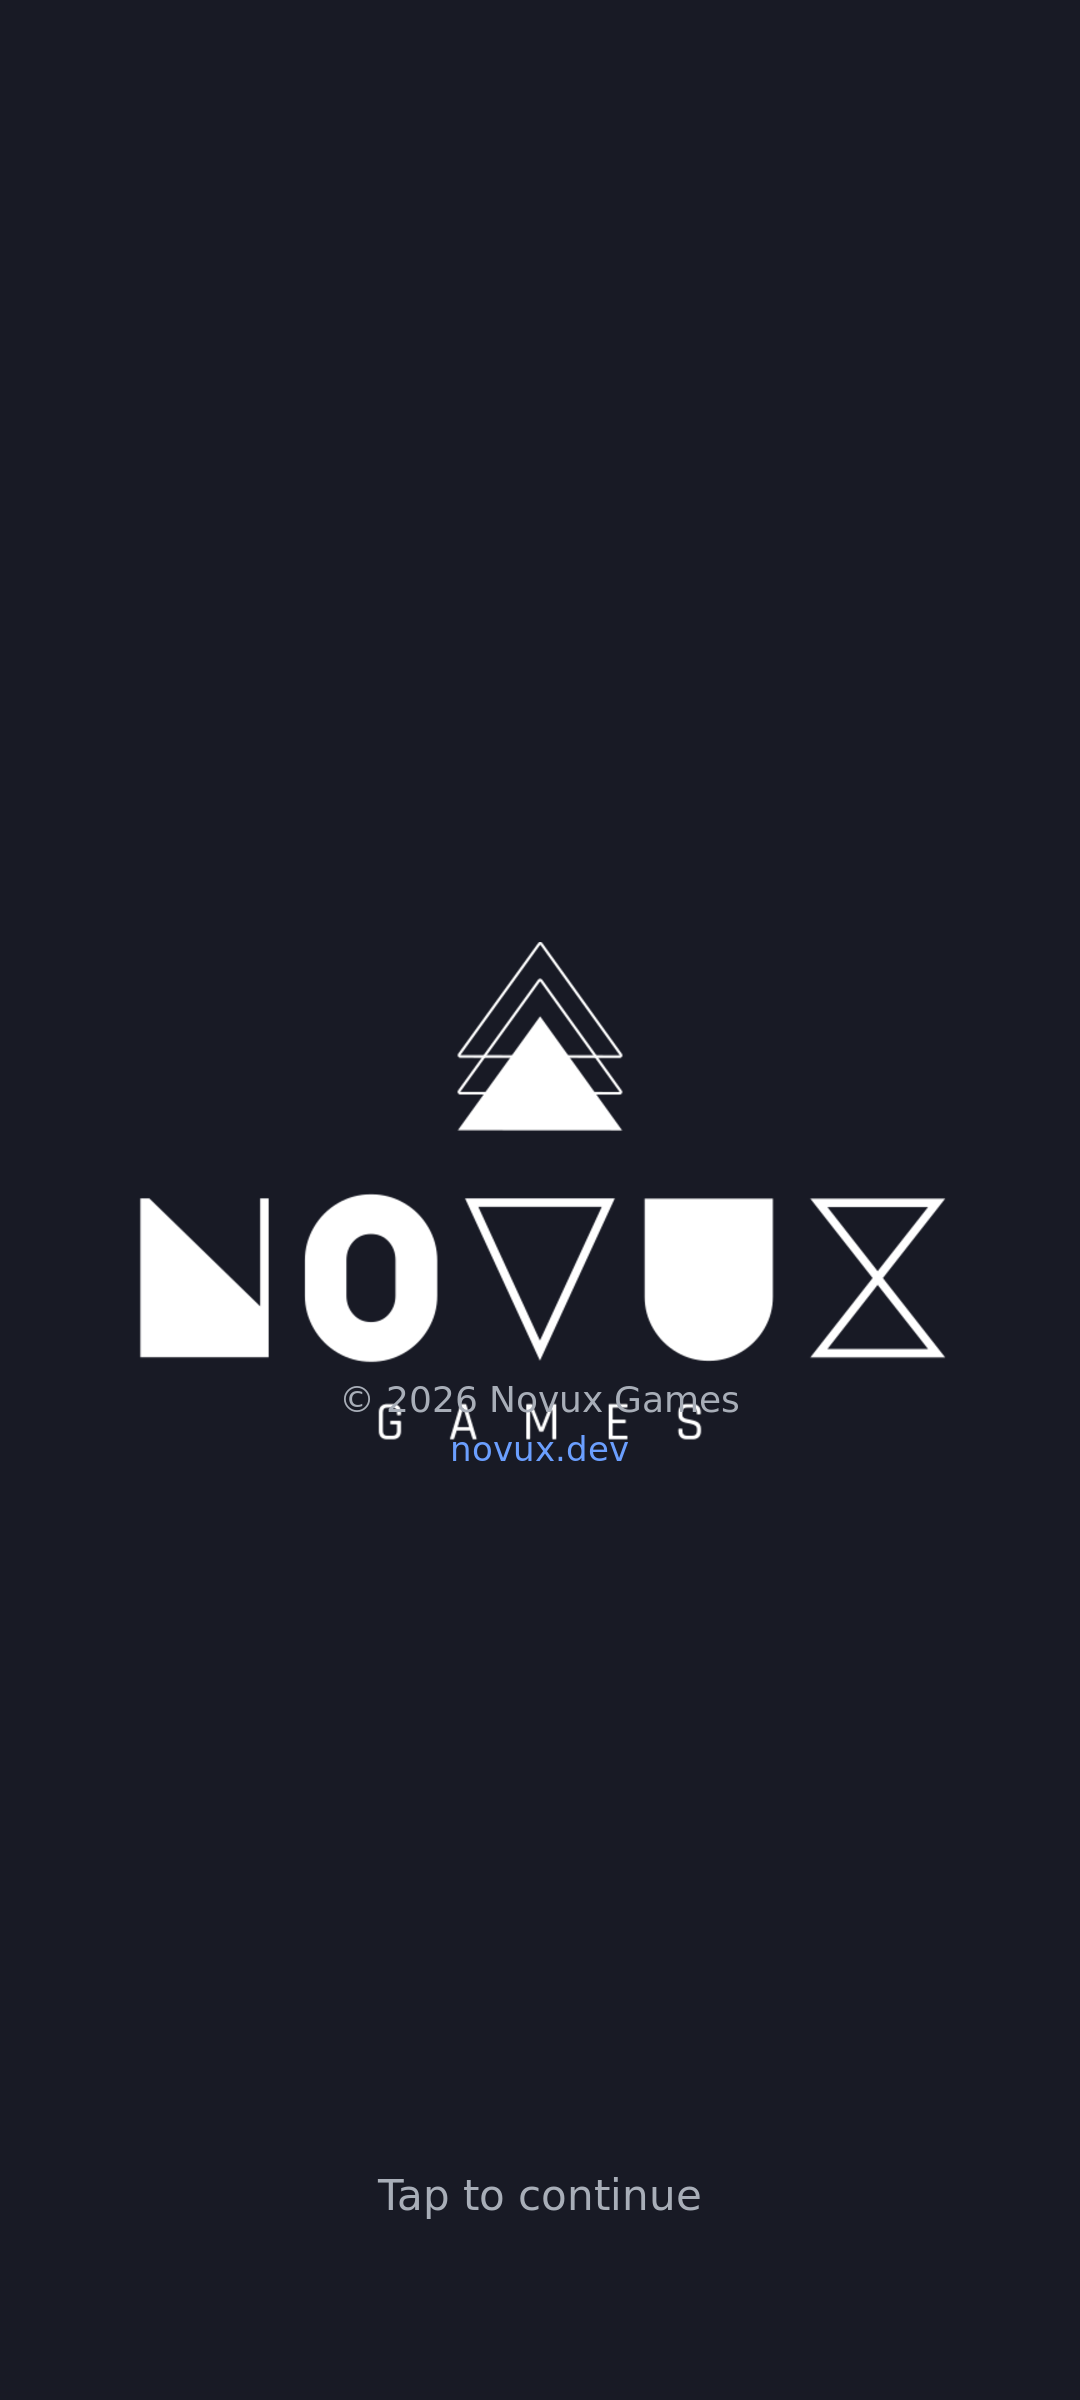
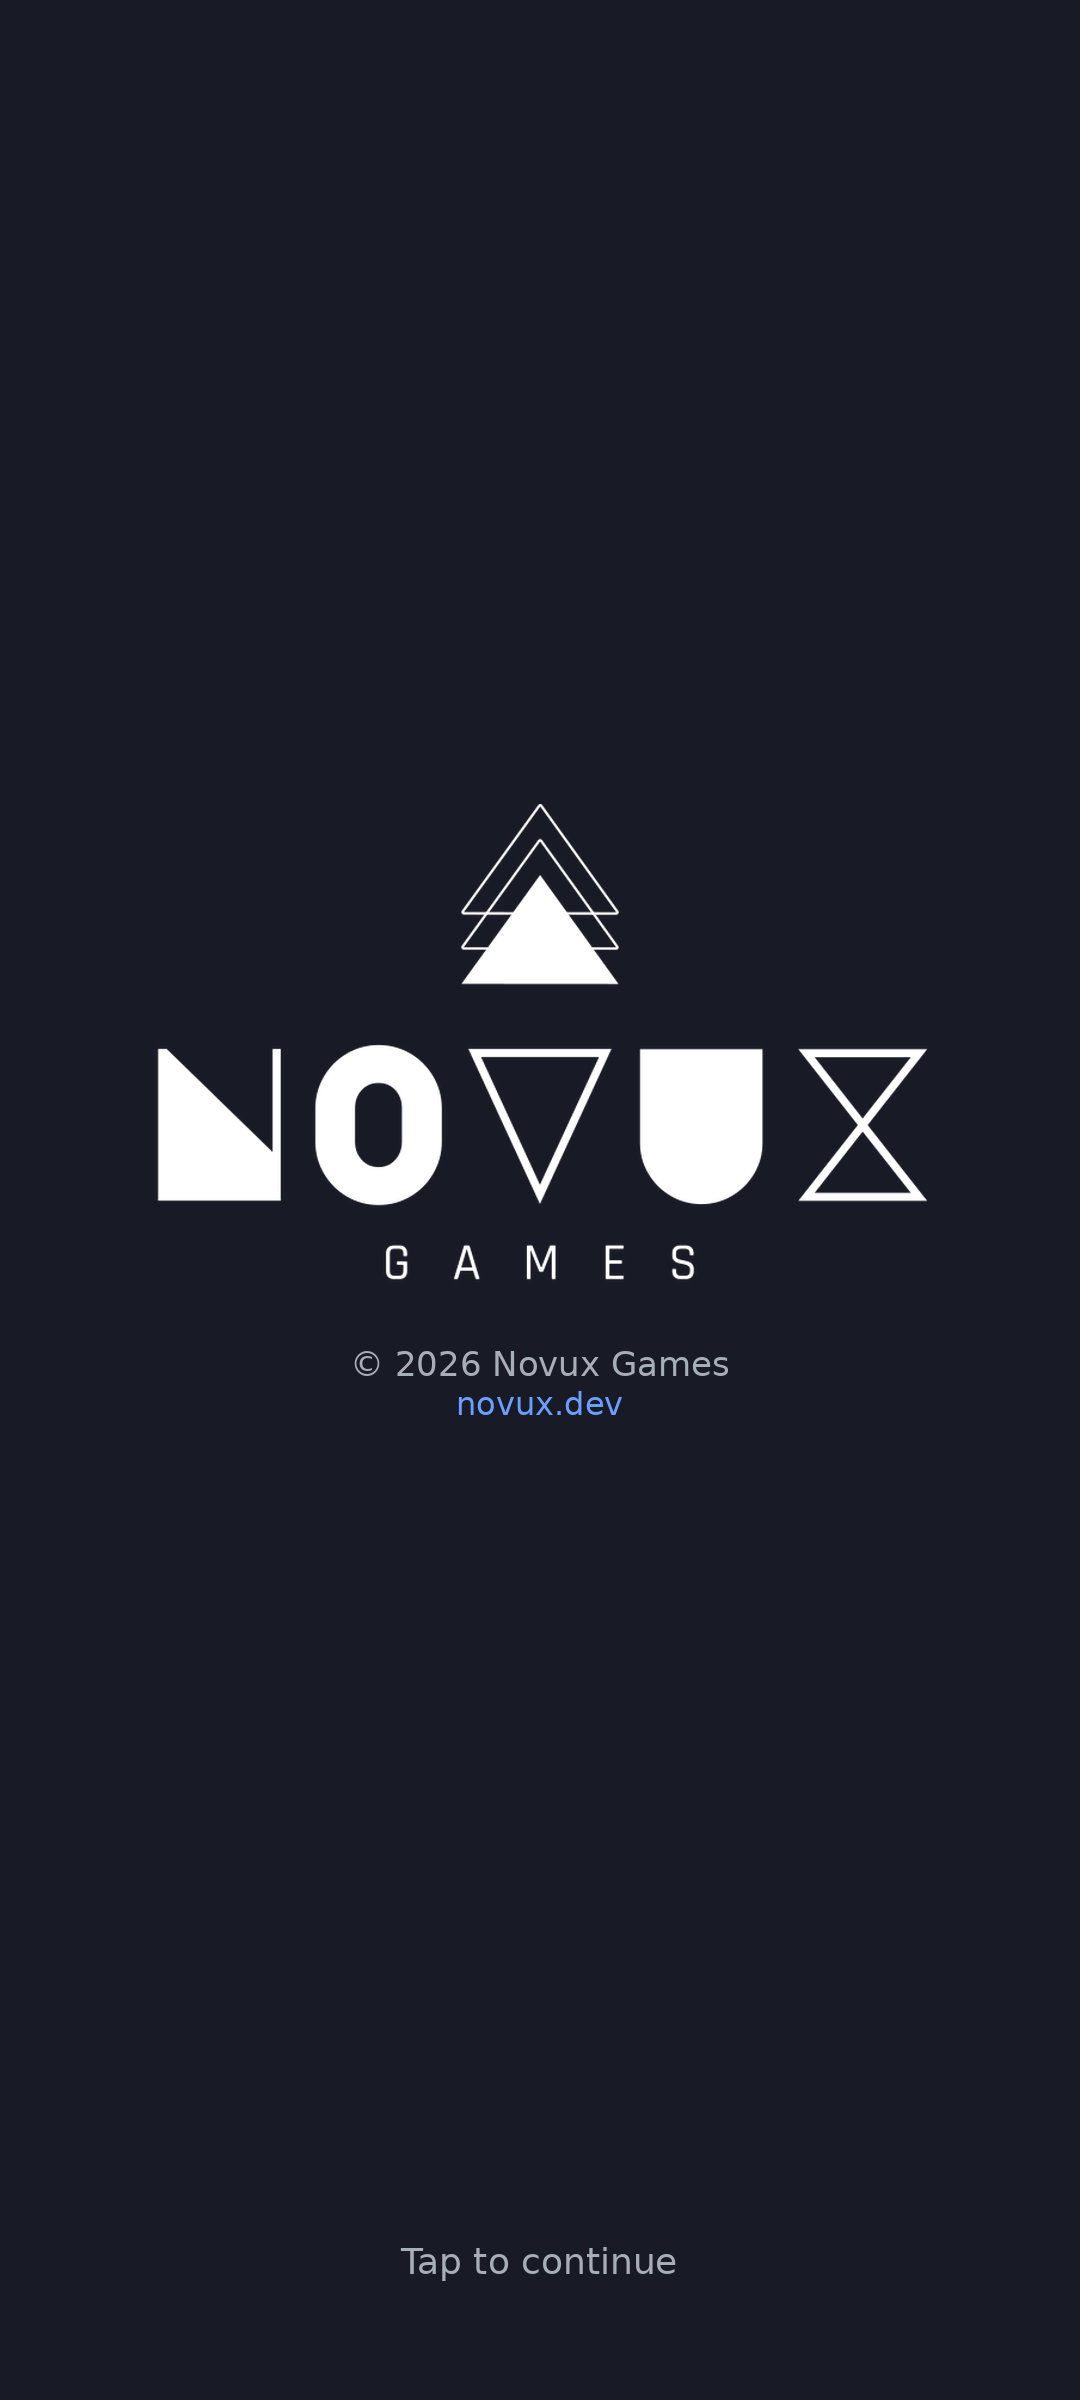
fix(shell): studio layout, splash spacing, preview renders via script

diff --git a/android/app/src/main/kotlin/dev/novux/dynasty/cbb/ui/shell/SplashScreen.kt b/android/app/src/main/kotlin/dev/novux/dynasty/cbb/ui/shell/SplashScreen.kt
@@ -2,11 +2,12 @@ package dev.novux.dynasty.cbb.ui.shell
 
 import androidx.compose.foundation.Image
 import androidx.compose.foundation.clickable
-import androidx.compose.foundation.layout.Arrangement
 import androidx.compose.foundation.layout.Box
 import androidx.compose.foundation.layout.Column
+import androidx.compose.foundation.layout.Spacer
 import androidx.compose.foundation.layout.fillMaxSize
 import androidx.compose.foundation.layout.fillMaxWidth
+import androidx.compose.foundation.layout.height
 import androidx.compose.foundation.layout.padding
 import androidx.compose.foundation.layout.sizeIn
 import androidx.compose.material3.CircularProgressIndicator
@@ -42,75 +43,69 @@ fun SplashScreen(onTapToPlay: () -> Unit) {
         ready = true
     }
 
-    Box(
-        modifier = Modifier.fillMaxSize(),
-        contentAlignment = Alignment.Center,
-    ) {
+    Box(modifier = Modifier.fillMaxSize()) {
         Column(
             horizontalAlignment = Alignment.CenterHorizontally,
-            verticalArrangement = Arrangement.spacedBy(12.dp),
-            modifier = Modifier.padding(horizontal = 32.dp),
+            modifier = Modifier
+                .align(Alignment.Center)
+                .padding(horizontal = 32.dp)
+                .padding(bottom = 48.dp),
         ) {
             Image(
                 painter = painterResource(R.drawable.app_logo),
-                contentDescription = GameConstants.GAME_TITLE,
+                contentDescription = null,
                 contentScale = ContentScale.Fit,
                 modifier = Modifier
-                    .fillMaxWidth(0.72f)
-                    .sizeIn(maxHeight = 260.dp)
-                    .padding(bottom = 8.dp),
+                    .fillMaxWidth(0.68f)
+                    .sizeIn(maxHeight = 240.dp),
             )
+
+            Spacer(modifier = Modifier.height(48.dp))
 
             Text(
                 text = GameConstants.GAME_TITLE,
                 style = MaterialTheme.typography.headlineMedium,
                 fontWeight = FontWeight.Bold,
                 textAlign = TextAlign.Center,
-                modifier = Modifier.padding(top = 28.dp),
             )
 
             if (!ready) {
-                CircularProgressIndicator(modifier = Modifier.padding(top = 12.dp))
+                CircularProgressIndicator(modifier = Modifier.padding(top = 28.dp))
             } else {
                 Text(
                     text = stringResource(R.string.tap_to_play),
                     style = MaterialTheme.typography.titleLarge,
                     color = MaterialTheme.colorScheme.primary,
                     modifier = Modifier
-                        .padding(top = 24.dp)
+                        .padding(top = 28.dp)
                         .clickable(onClick = onTapToPlay),
                 )
             }
+        }
 
-            Column(
-                horizontalAlignment = Alignment.CenterHorizontally,
-                modifier = Modifier.padding(top = 40.dp),
-            ) {
-                Text(
-                    text = stringResource(
-                        R.string.splash_copyright,
-                        copyrightYear,
-                        GameConstants.STUDIO_NAME,
-                    ),
-                    style = MaterialTheme.typography.labelSmall,
-                    color = MaterialTheme.colorScheme.onSurfaceVariant,
-                    textAlign = TextAlign.Center,
-                )
-                Text(
-                    text = stringResource(R.string.game_director_line),
-                    style = MaterialTheme.typography.labelSmall,
-                    color = MaterialTheme.colorScheme.onSurfaceVariant,
-                    textAlign = TextAlign.Center,
-                    modifier = Modifier.padding(top = 6.dp),
-                )
-                Text(
-                    text = stringResource(R.string.game_director_website),
-                    style = MaterialTheme.typography.labelSmall,
-                    color = MaterialTheme.colorScheme.primary,
-                    textAlign = TextAlign.Center,
-                    modifier = Modifier.padding(top = 4.dp),
-                )
-            }
+        Column(
+            horizontalAlignment = Alignment.CenterHorizontally,
+            modifier = Modifier
+                .align(Alignment.BottomCenter)
+                .padding(bottom = 48.dp),
+        ) {
+            Text(
+                text = stringResource(
+                    R.string.splash_copyright,
+                    copyrightYear,
+                    GameConstants.STUDIO_NAME,
+                ),
+                style = MaterialTheme.typography.labelSmall,
+                color = MaterialTheme.colorScheme.onSurfaceVariant,
+                textAlign = TextAlign.Center,
+            )
+            Text(
+                text = stringResource(R.string.game_director_line),
+                style = MaterialTheme.typography.labelSmall,
+                color = MaterialTheme.colorScheme.onSurfaceVariant,
+                textAlign = TextAlign.Center,
+                modifier = Modifier.padding(top = 8.dp),
+            )
         }
     }
 }

diff --git a/android/app/src/main/kotlin/dev/novux/dynasty/cbb/ui/shell/StudioScreen.kt b/android/app/src/main/kotlin/dev/novux/dynasty/cbb/ui/shell/StudioScreen.kt
@@ -4,10 +4,13 @@ import androidx.compose.animation.core.animateFloatAsState
 import androidx.compose.animation.core.tween
 import androidx.compose.foundation.Image
 import androidx.compose.foundation.clickable
+import androidx.compose.foundation.layout.Arrangement
 import androidx.compose.foundation.layout.Box
 import androidx.compose.foundation.layout.Column
+import androidx.compose.foundation.layout.Spacer
 import androidx.compose.foundation.layout.fillMaxSize
 import androidx.compose.foundation.layout.fillMaxWidth
+import androidx.compose.foundation.layout.height
 import androidx.compose.foundation.layout.padding
 import androidx.compose.foundation.layout.sizeIn
 import androidx.compose.material3.MaterialTheme
@@ -71,23 +74,27 @@ fun StudioScreen(
     Box(
         modifier = Modifier
             .fillMaxSize()
-            .clickable(enabled = skipEnabled, onClick = advance),
-        contentAlignment = Alignment.Center,
+            .clickable(enabled = skipEnabled, onClick = advance)
+            .alpha(logoAlpha),
     ) {
         Column(
             horizontalAlignment = Alignment.CenterHorizontally,
+            verticalArrangement = Arrangement.Center,
             modifier = Modifier
-                .padding(horizontal = 32.dp)
-                .alpha(logoAlpha),
+                .align(Alignment.Center)
+                .padding(horizontal = 40.dp)
+                .padding(bottom = 72.dp),
         ) {
             Image(
                 painter = painterResource(R.drawable.novux_studio_lockup),
                 contentDescription = GameConstants.STUDIO_NAME,
                 contentScale = ContentScale.Fit,
                 modifier = Modifier
-                    .fillMaxWidth(0.88f)
-                    .sizeIn(maxHeight = 200.dp),
+                    .fillMaxWidth(0.82f)
+                    .sizeIn(maxHeight = 168.dp),
             )
+
+            Spacer(modifier = Modifier.height(40.dp))
 
             Text(
                 text = stringResource(
@@ -98,23 +105,25 @@ fun StudioScreen(
                 style = MaterialTheme.typography.labelLarge,
                 color = MaterialTheme.colorScheme.onSurfaceVariant,
                 textAlign = TextAlign.Center,
-                modifier = Modifier.padding(top = 20.dp),
             )
+
+            Spacer(modifier = Modifier.height(8.dp))
 
             Text(
                 text = stringResource(R.string.studio_website),
                 style = MaterialTheme.typography.bodyMedium,
                 color = MaterialTheme.colorScheme.primary,
                 textAlign = TextAlign.Center,
-                modifier = Modifier.padding(top = 4.dp),
-            )
-
-            Text(
-                text = "Tap to continue",
-                style = MaterialTheme.typography.bodyMedium,
-                color = MaterialTheme.colorScheme.onSurfaceVariant,
-                modifier = Modifier.padding(top = 40.dp),
             )
         }
+
+        Text(
+            text = "Tap to continue",
+            style = MaterialTheme.typography.bodyMedium,
+            color = MaterialTheme.colorScheme.onSurfaceVariant,
+            modifier = Modifier
+                .align(Alignment.BottomCenter)
+                .padding(bottom = 56.dp),
+        )
     }
 }

diff --git a/scripts/render_screen_previews.py b/scripts/render_screen_previews.py
@@ -1,0 +1,145 @@
+#!/usr/bin/env python3
+"""Composite splash/studio preview PNGs with explicit Y positions (no overlapping text)."""
+
+from __future__ import annotations
+
+import datetime
+from pathlib import Path
+
+from PIL import Image, ImageDraw, ImageFont
+
+ROOT = Path(__file__).resolve().parents[1]
+OUT = ROOT / "Public-Assets" / "screen-previews"
+W, H = 1080, 2400
+BG = (0x18, 0x1A, 0x25)
+MUTED = (0xA8, 0xAE, 0xB8)
+ON_BG = (0xE8, 0xEA, 0xED)
+ACCENT = (0x6B, 0x9F, 0xFF)
+
+
+def load_font(bold: bool = False, size: int = 36) -> ImageFont.FreeTypeFont:
+    name = "DejaVuSans-Bold.ttf" if bold else "DejaVuSans.ttf"
+    try:
+        return ImageFont.truetype(name, size)
+    except OSError:
+        return ImageFont.load_default()
+
+
+def paste_centered(canvas: Image.Image, overlay: Image.Image, top: int) -> int:
+    x = (canvas.width - overlay.width) // 2
+    canvas.paste(overlay, (x, top), overlay if overlay.mode == "RGBA" else None)
+    return top + overlay.height
+
+
+def draw_centered_text(
+    draw: ImageDraw.ImageDraw,
+    y: int,
+    text: str,
+    font: ImageFont.FreeTypeFont,
+    fill: tuple[int, int, int],
+) -> int:
+    bbox = draw.textbbox((0, 0), text, font=font)
+    text_w = bbox[2] - bbox[0]
+    text_h = bbox[3] - bbox[1]
+    x = (W - text_w) // 2
+    draw.text((x, y), text, font=font, fill=fill)
+    return y + text_h
+
+
+def render_studio(year: int) -> None:
+    canvas = Image.new("RGB", (W, H), BG)
+    draw = ImageDraw.Draw(canvas)
+
+    lockup = Image.open(
+        ROOT / "android/app/src/main/res/drawable-nodpi/novux_studio_lockup.png",
+    ).convert("RGBA")
+    target_w = 860
+    scale = target_w / lockup.width
+    lockup = lockup.resize(
+        (target_w, int(lockup.height * scale)),
+        Image.Resampling.LANCZOS,
+    )
+
+    block_h = (
+        lockup.height
+        + 48
+        + 40
+        + 16
+        + 36
+    )
+    y = (H - block_h) // 2 - 80
+    y = paste_centered(canvas, lockup, y)
+    y += 48
+
+    font_copy = load_font(size=34)
+    font_url = load_font(size=32)
+    font_hint = load_font(size=36)
+
+    y = draw_centered_text(
+        draw, y, f"© {year} Novux Games", font_copy, MUTED
+    )
+    y += 16
+    draw_centered_text(draw, y, "novux.dev", font_url, ACCENT)
+
+    hint_y = H - 160
+    draw_centered_text(draw, hint_y, "Tap to continue", font_hint, MUTED)
+
+    out = OUT / "studio-screen.png"
+    canvas.save(out, optimize=True)
+    print(f"Wrote {out}")
+
+
+def render_splash(year: int) -> None:
+    canvas = Image.new("RGB", (W, H), BG)
+    draw = ImageDraw.Draw(canvas)
+
+    logo = Image.open(ROOT / "Public-Assets/app-logo.png").convert("RGBA")
+    target_w = 440
+    scale = target_w / logo.width
+    logo = logo.resize(
+        (target_w, int(logo.height * scale)),
+        Image.Resampling.LANCZOS,
+    )
+
+    title_font = load_font(bold=True, size=46)
+    cta_font = load_font(size=50)
+    footer_font = load_font(size=28)
+
+    title_gap = 88
+    title_bbox = draw.textbbox((0, 0), "Dynasty: College Basketball", font=title_font)
+    title_h = title_bbox[3] - title_bbox[1]
+    cta_h = 50
+    mid_block = logo.height + title_gap + title_h + 48 + cta_h
+    y = (H // 2) - (mid_block // 2) - 60
+
+    y = paste_centered(canvas, logo, y)
+    y += title_gap
+    y = draw_centered_text(
+        draw, y, "Dynasty: College Basketball", title_font, ON_BG
+    )
+    y += 48
+    draw_centered_text(draw, y, "Tap to Play", cta_font, ACCENT)
+
+    footer_y = H - 200
+    footer_y = draw_centered_text(
+        draw, footer_y, f"© {year} Novux Games", footer_font, MUTED
+    )
+    footer_y += 10
+    draw_centered_text(
+        draw, footer_y, "Game Director: Austin Buhl", footer_font, MUTED
+    )
+
+    out = OUT / "splash-screen.png"
+    canvas.save(out, optimize=True)
+    print(f"Wrote {out}")
+
+
+def main() -> None:
+    year = datetime.date.today().year
+    OUT.mkdir(parents=True, exist_ok=True)
+    render_studio(year)
+    render_splash(year)
+
+
+if __name__ == "__main__":
+    main()

diff --git a/planning/app-shell.md b/planning/app-shell.md
@@ -104,7 +104,7 @@ App process start
 │     Tap to Play         │  ← when ready
 │                         │
 │   © {year} Novux Games  │
-│   Game Director line    │  ← Austin Buhl / austinbuhltech.com
+│   Game Director line    │  ← Austin Buhl
 └─────────────────────────┘
 ```
 
